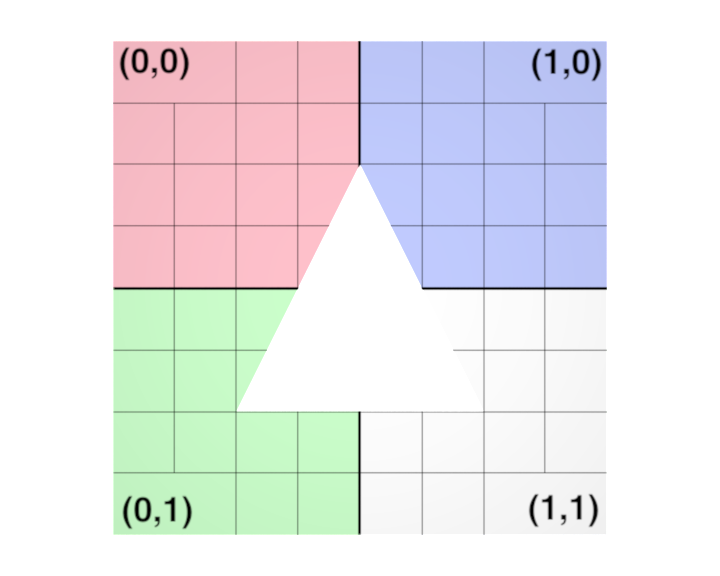
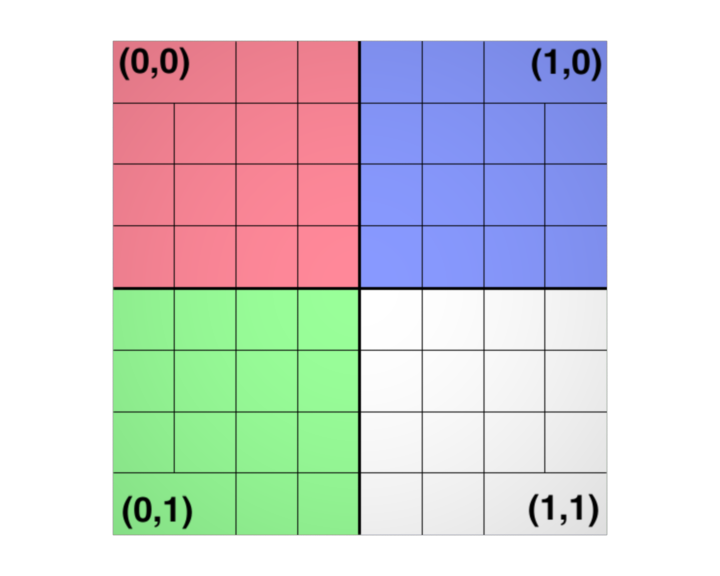
updated polygon stuff as holes are no longer supported

diff --git a/Lecture2Geo/Geometry/Curves/Corn/Corn.py b/Lecture2Geo/Geometry/Curves/Corn/Corn.py
@@ -5,10 +5,10 @@ import time,random
 # import the python renderman library
 import prman
 import sys
-sys.path.append('../../../../PythonClasses')
+sys.path.append('../../../../common/')
 
 from Camera import *
-from vector import *
+from Vec4 import *
 
 from random import uniform as ru
 
@@ -69,7 +69,7 @@ dircount=0
 BuildField(2,0.4,0.01,points,width,npoints)
 
 offset=0.0
-cam=Camera(Vector(0.1,1.2,1,1),Vector(0,0,0,1),Vector(0,1,0,0))
+cam=Camera(Vec4(0.1,1.2,1,1),Vec4(0,0,0,1),Vec4(0,1,0,0))
 cam.fov=40
 
 for frame in range(0,1) :
@@ -90,7 +90,7 @@ for frame in range(0,1) :
 	ri.Hider( 'raytrace', {'int incremental' : [1], 'int maxsamples' : [256] })
 	ri.Integrator( 'PxrPathTracer', 'handle', {'float clampLuminance' :[10]}) 
 
-	cam.Place(ri)
+	cam.place(ri)
 	
 	# now we start our world
 	ri.WorldBegin()

diff --git a/Lecture2Geo/Geometry/Curves/Corn/Grow.py b/Lecture2Geo/Geometry/Curves/Corn/Grow.py
@@ -5,10 +5,10 @@ import time,random
 # import the python renderman library
 import prman
 import sys
-sys.path.append('../../../../PythonClasses')
+sys.path.append('../../../../common')
 
 from Camera import *
-from vector import *
+from Vec4 import *
 
 from random import uniform as ru
 
@@ -70,7 +70,7 @@ BuildField(1.5,2,0.1,points,width,npoints)
 #BuildField(1,1,0.5,points,width,npoints)
 
 offset=0.0
-cam=Camera(Vector(0.1,0.4,2,1),Vector(0,0,0,1),Vector(0,1,0,0))
+cam=Camera(Vec4(0.1,0.4,2,1),Vec4(0,0,0,1),Vec4(0,1,0,0))
 cam.fov=40
 
 for frame in range(0,100) :
@@ -89,7 +89,7 @@ for frame in range(0,100) :
 	# now set the projection to perspective
 	ri.Projection(ri.PERSPECTIVE,{ri.FOV:50}) 
 	
-	cam.Place(ri)
+	cam.place(ri)
 	
 	# now we start our world
 	ri.WorldBegin()

diff --git a/Lecture2Geo/Geometry/Polygons/GeneralPolygon.py b/Lecture2Geo/Geometry/Polygons/GeneralPolygon.py
@@ -40,11 +40,11 @@ ri.Bxdf( 'PxrDiffuse','diffuse',
   'reference color diffuseColor'  : ['ratGrid:resultRGB']
 })
 
-points=[-2,-2,0,-2,2,0,2,2,0,2,-2,0,-1,-1,0,0,1,0,1,-1,0]
-st=[0,1, 0,0, 1,0, 1,1,  0.25,0.75, 0.5,0.25, 0.75,0.75]
+points=[-2,-2,0,-2,2,0,2,2,0,2,-2,0]
+st=[0,1, 0,0, 1,0, 1,1]
 
 
-ri.GeneralPolygon([4,3],{ri.P:points,ri.ST:st})
+ri.GeneralPolygon([4],{ri.P:points,ri.ST:st})
 
 ri.TransformEnd()
 ri.WorldEnd()

diff --git a/slides/lecture2/PITCHME.md b/slides/lecture2/PITCHME.md
@@ -111,8 +111,9 @@ Polygon "varying float[2] st" [0 1 0.5 0 1 1] "vertex point P" [-1 -1 -2 0 1 1 1
 ## ri.GeneralPolygon
 <img src="slides/lecture2/images/General.png" width="30%">
 
-- Define a general planar concave polygon with holes. This polygon is specified by giving nloops lists of vertices. 
-- The first loop is the outer boundary of the polygon; all additional loops are holes.
+- Define a general planar concave polygon. 
+- This polygon is specified by giving nloops lists of vertices. 
+- Holes are no longer supported.
 
 +++
 
